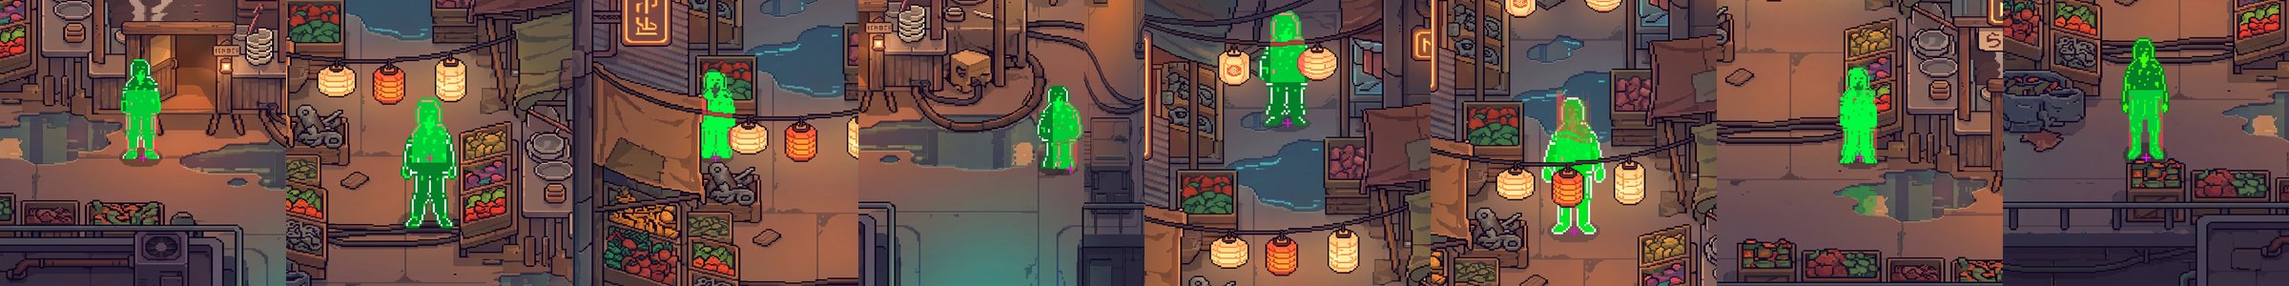
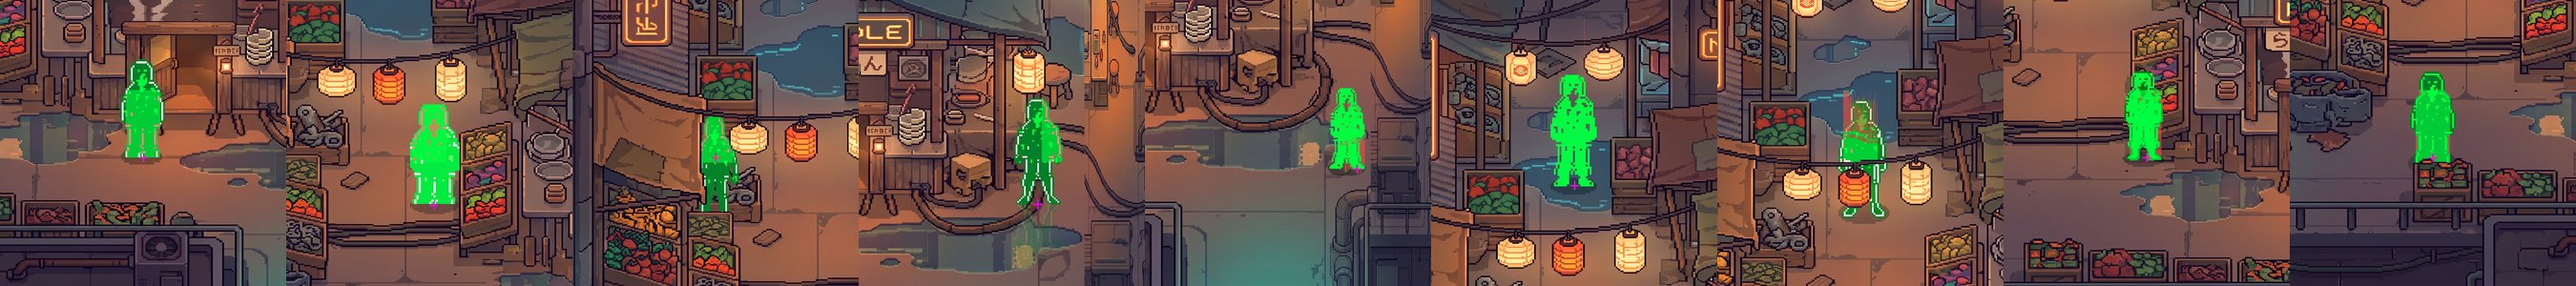
persist all probe intermediates; park probing (magenta v4 is the lead method)

diff --git a/tools/art-pipeline/occprobe3_iter.py b/tools/art-pipeline/occprobe3_iter.py
@@ -124,6 +124,18 @@ def _extract(resp, ma, crop, mx, my, box, origin, pos):
     return None
 
 
+def save_probe_images(room, it, r):
+    d = os.path.join(ROOT, 'docs/art-options/probes', room)
+    os.makedirs(d, exist_ok=True)
+    x, y = r['ev'].pos
+    r['gen'].save(os.path.join(d, f'it{it}_x{x}_y{y}_gen.jpg'), quality=88)
+    g = np.asarray(r['gen']).astype(np.float32)
+    g[r['ev'].visible] = g[r['ev'].visible] * 0.4 + np.array([0, 255, 64], np.float32) * 0.6
+    g[r['ev'].occluded] = g[r['ev'].occluded] * 0.4 + np.array([255, 70, 70], np.float32) * 0.6
+    Image.fromarray(g.clip(0, 255).astype(np.uint8)).save(
+        os.path.join(d, f'it{it}_x{x}_y{y}_extract.jpg'), quality=88)
+
+
 def sort_table(base, base_row):
     """Rank parts: ysort by interval midpoint (fallback base row), overhead
     last (always on top = highest z)."""
@@ -173,6 +185,8 @@ async def main(room):
     for it, batch in enumerate(batches, 1):
         results = [r for r in await asyncio.gather(
             *(probe(plate, sprite, p) for p in batch)) if r is not None]
+        for r in results:
+            save_probe_images(room, it, r)
         cum.extend(results)
         evidence = [r['ev'] for r in cum]
         # front-probed parts from evidence geometry
@@ -221,7 +235,7 @@ async def main(room):
         # iteration probe strip (this batch's keyed extractions)
         if results:
             tile = 300
-            strip = Image.new('RGB', (tile * len(results), tile), (12, 12, 16))
+            strip = Image.new('RGB', (tile * 9, tile), (12, 12, 16))  # fixed 9-tile canvas: uniform dims for ImageLayers
             for n, r in enumerate(results):
                 g = np.asarray(r['gen']).astype(np.float32)
                 g[r['ev'].visible] = g[r['ev'].visible] * 0.4 + np.array([0, 255, 64], np.float32) * 0.6

diff --git a/tools/art-pipeline/STATUS.md b/tools/art-pipeline/STATUS.md
@@ -1394,3 +1394,12 @@ Model pinning skipped: Vertex exposes no dated alias for gemini-3-pro-image.
 - keyed &= ~key_mask(plate crop): scene greens can never be char evidence.
   Yield 15/36 -> 33/36 (91.7%). Iter 4 verdicts on parts: 6 ysort, 1 overhead,
   5 contradiction, 23 no-ev; per-iteration change log regenerated.
+
+### Run 30c: probing PARKED; pivot to magenta-first pipeline (Ivan)
+- All per-probe intermediates persisted (docs/art-options/probes/night-bazaar/
+  it{N}_x{X}_y{Y}_{gen,extract}.jpg) and committed for individual debugging.
+  Probing approach PARKED per Ivan — magenta ground v4 is the winning method.
+- New pipeline: (1) pre-process plate to REMOVE all cables/wires (ground +
+  overhead; re-add later in post), (2) magenta v4 on the wireless plate,
+  (3) build collision directly from the magenta consensus, (4) player drive
+  verification in-game.
